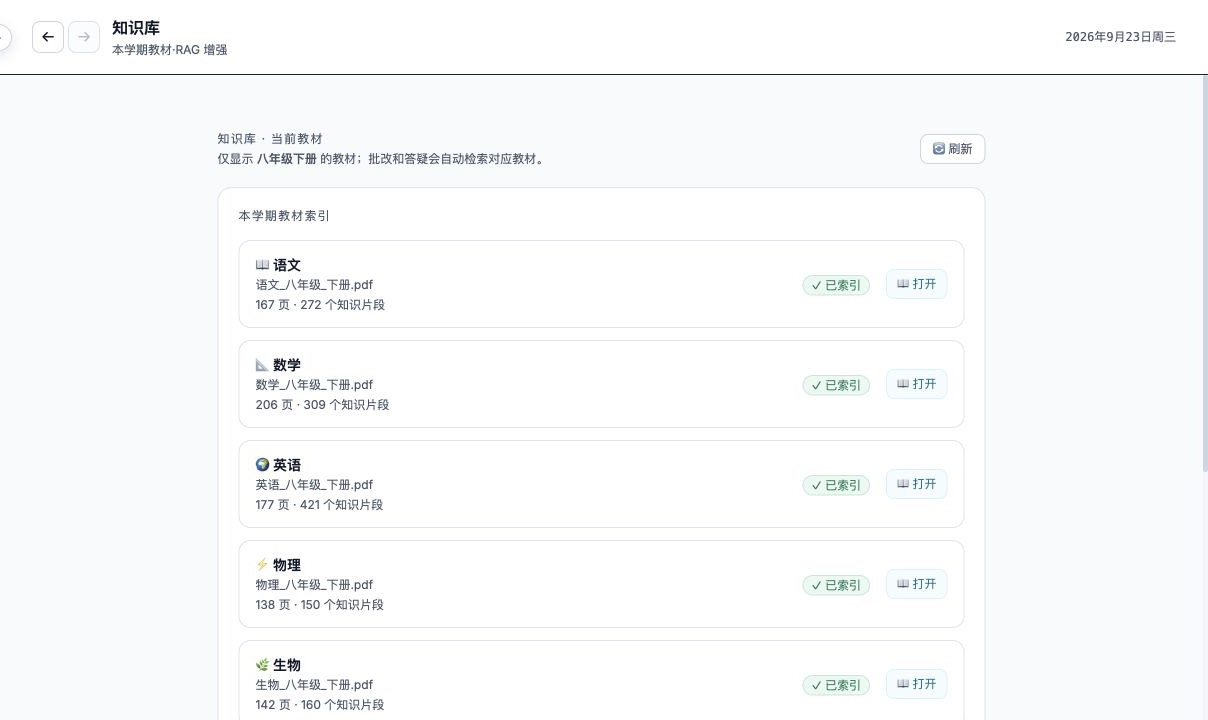
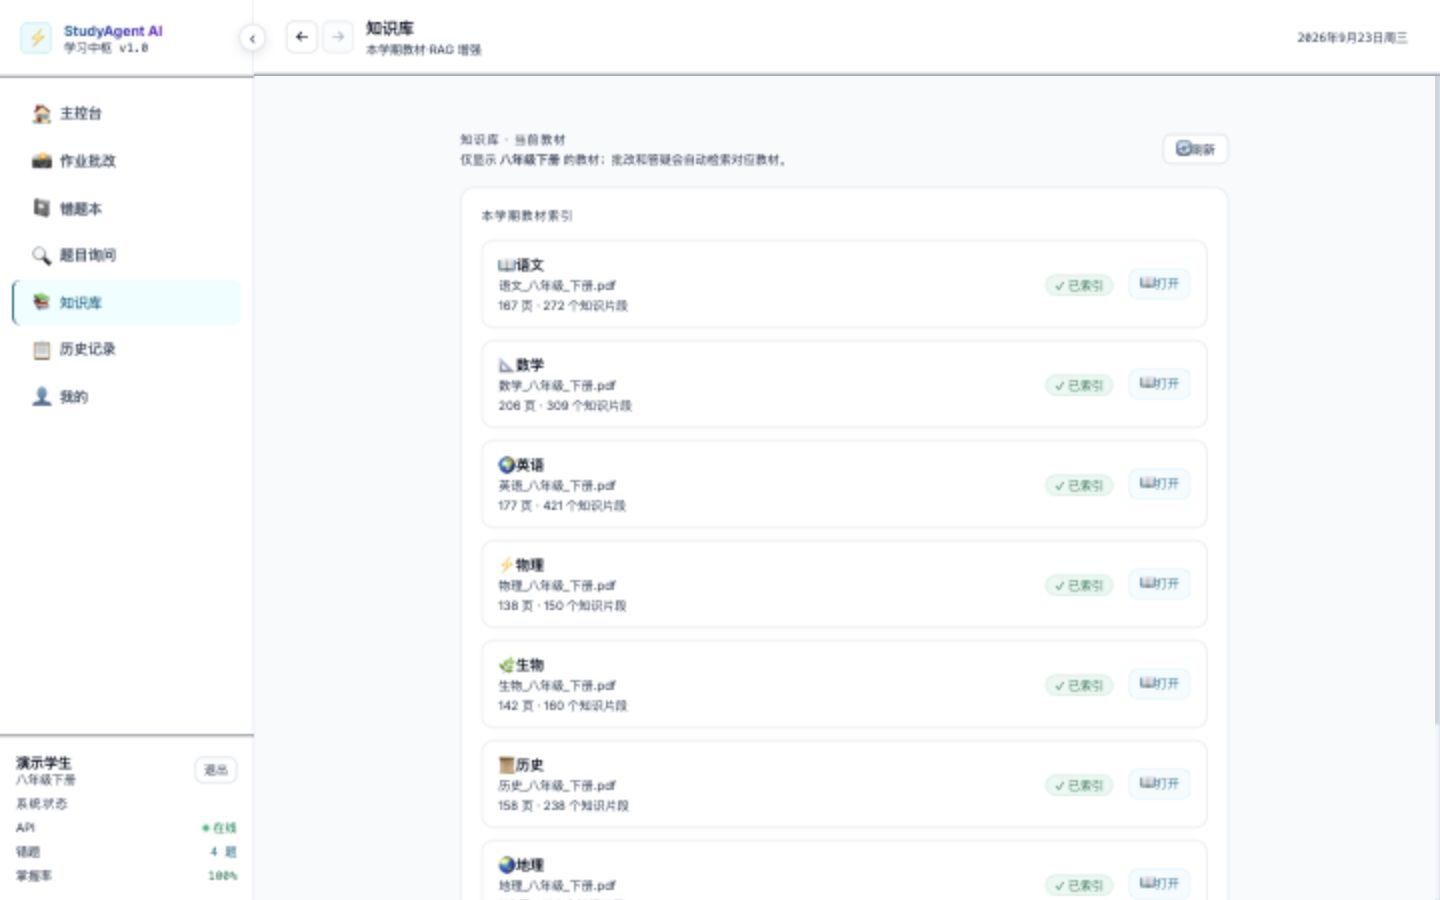
docs: replace legacy demo with full-page screenshots

diff --git a/README.md b/README.md
@@ -13,7 +13,7 @@
 
 它不是一个只返回“对/错”的识题工具。每道题都会保留完整题干、学生过程、正确答案、错误原因、教材依据、解题思路和原题截图；学生还可以在该题右侧直接继续追问，AI 会带着当前题目的上下文进行流式回答。
 
-> 本页截图来自本地运行的真实功能与历史批改记录。为保护隐私，公开截图裁掉了学生姓名；用户数据、原始教材、作业源文件、向量库和 API 密钥均未提交到仓库。
+> 本页截图来自本地运行的真实功能与历史批改记录，均保留完整桌面页面。为保护隐私，截图中的姓名统一显示为“演示学生”；用户数据、原始教材、作业源文件、向量库和 API 密钥均未提交到仓库。
 
 ## 一分钟了解产品
 
@@ -398,10 +398,6 @@ curl http://127.0.0.1:6333/collections
 - [项目审计与改进记录](项目审计与改进记录.md)：项目优点、已修复问题、剩余限制与验证证据。
 - [严格安全与 Agent 质量审计报告](严格安全与Agent质量审计报告.md)：输入安全、用户隔离、Agent 合理性、RAG 和真实运行审计。
 - [教材目录说明](TextBook/README.md)：教材命名、年级目录和索引准备规则。
-
-## 演示视频
-
-[查看 StudyAgent AI 操作演示](https://github.com/user-attachments/assets/eb99171f-246f-4a90-99e0-91e803813c4b)
 
 ---
 
